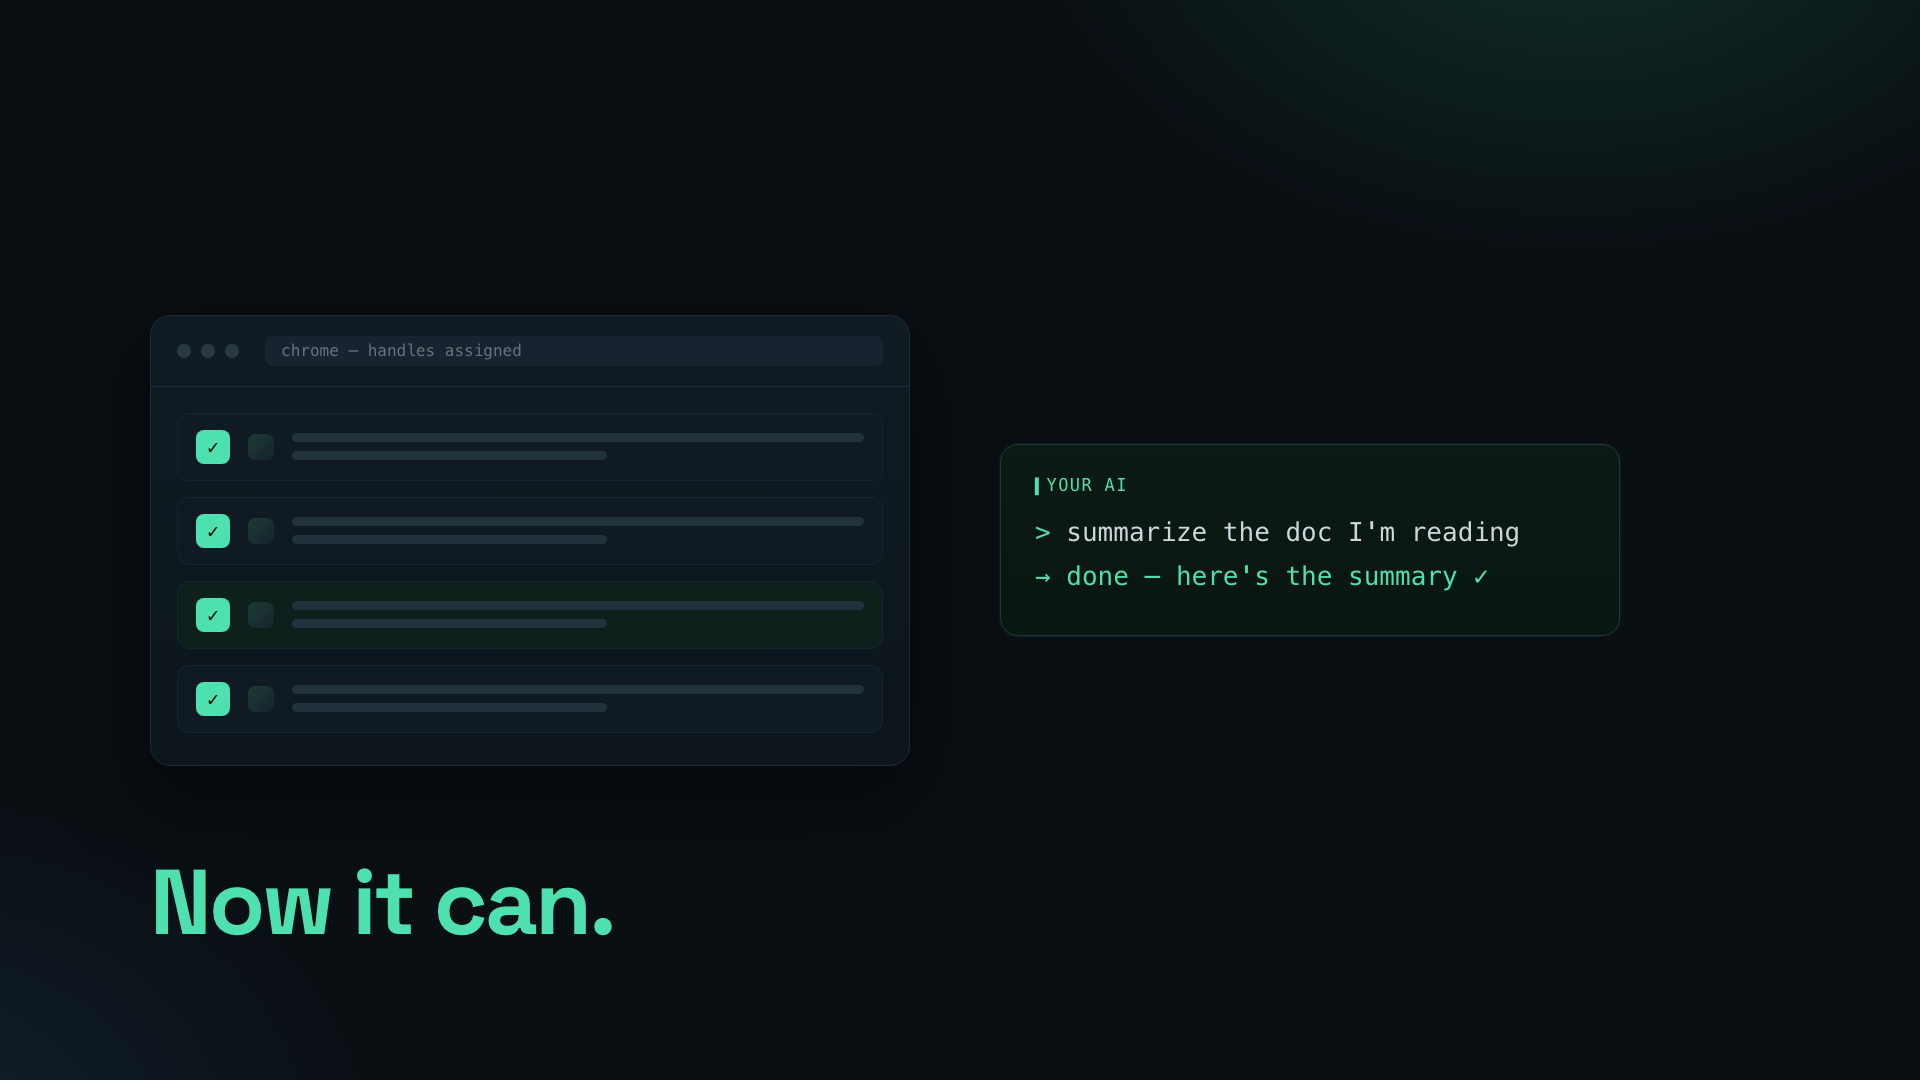
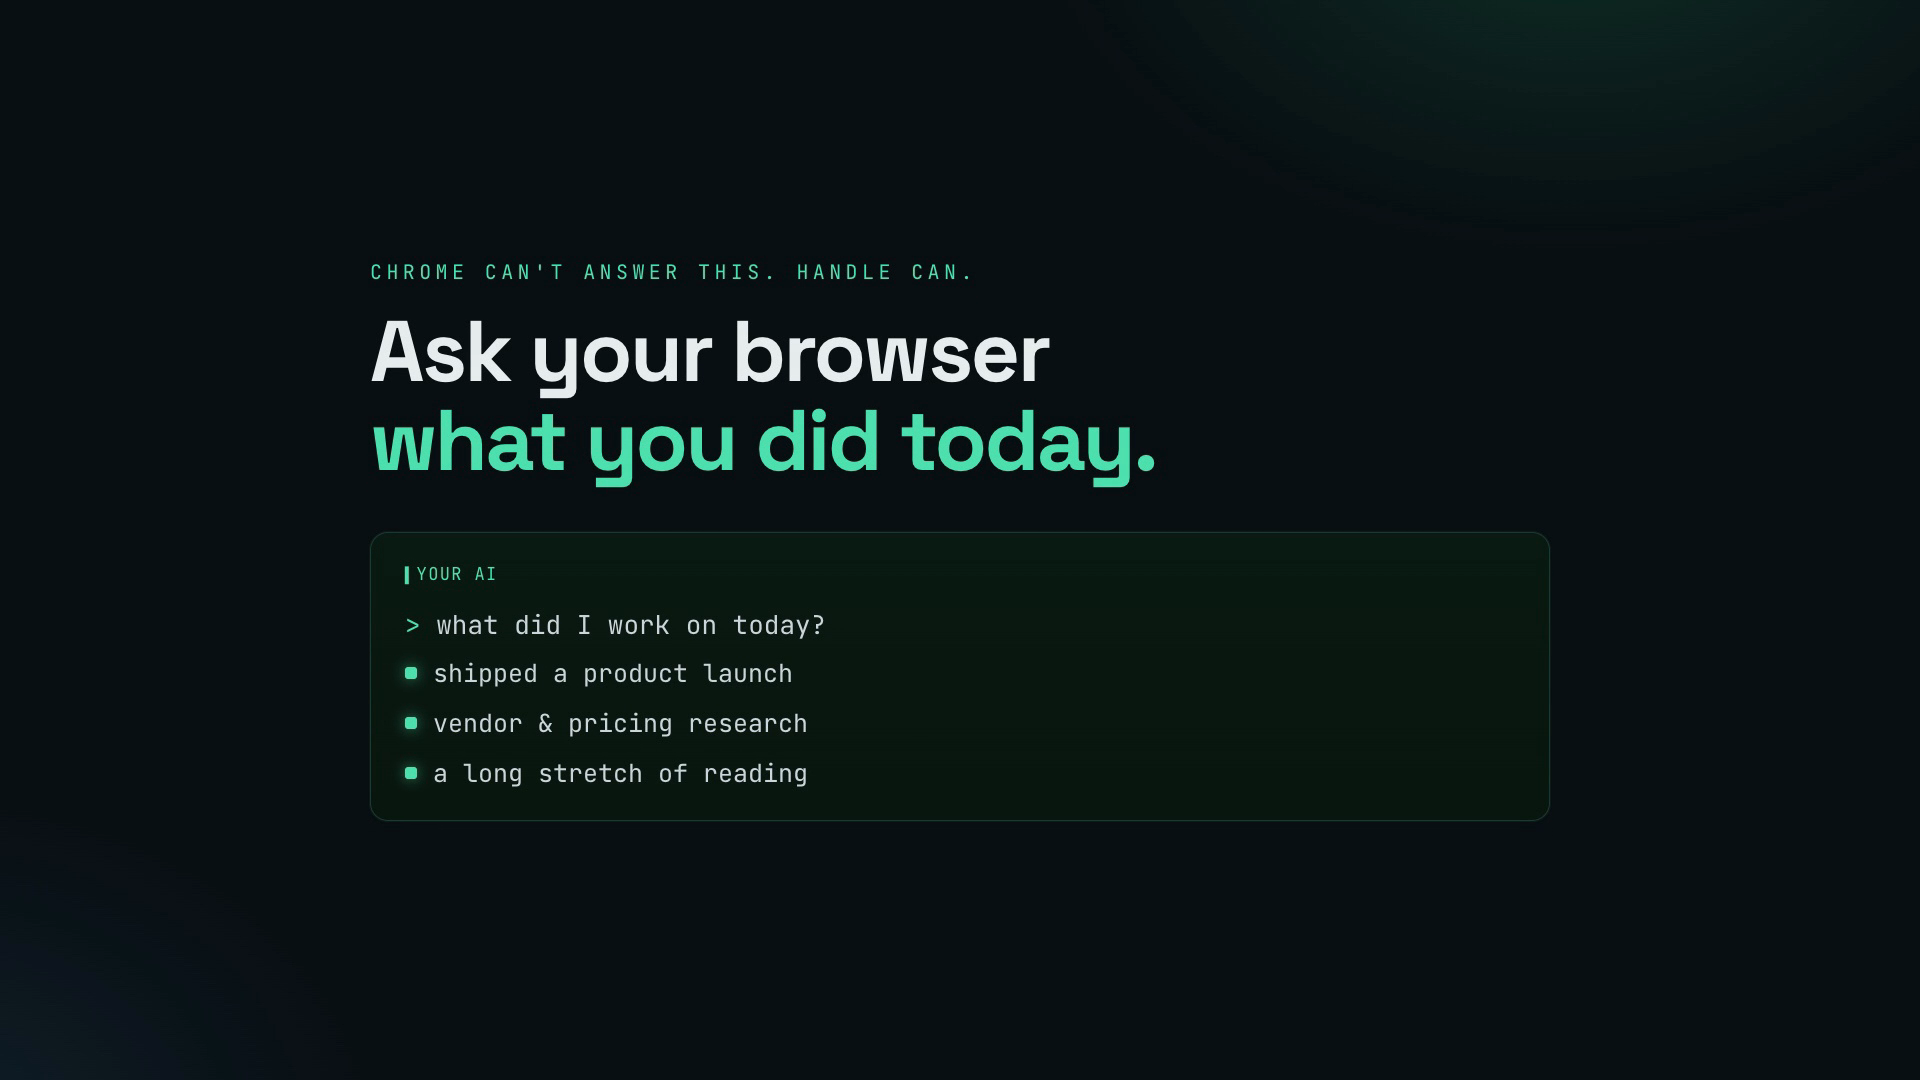
Recut launch video to the new value prop
Rebuilt the HyperFrames composition around four beats that match the
repositioned story, replacing the single "read a tab" beat:
  1. Hook — "what did I work on today?" (the thing Chrome can't answer)
  2. Resurface a past page by meaning from history → reopen → summarize
  3. Read your real, signed-in tabs (Doc/dashboard/Figma), answered cited
  4. CTA — "Your whole Chrome, one question away" + MCP + repo

Same dark/mint identity. Generic example names (Stratechery), no niche
references. Lint clean; contrast labels brightened. Replaced
docs/handle-launch.mp4 + regenerated the poster from the new scene 1.

diff --git a/launch-video/index.html b/launch-video/index.html
@@ -29,145 +29,134 @@
       #s3 { opacity: 0; z-index: 3; }
       #s4 { opacity: 0; z-index: 4; }
 
-      .stage { display: flex; align-items: center; gap: 90px; width: 100%; padding: 0 150px; }
-      .browser { width: 760px; background: linear-gradient(180deg,#101b23,#0c151c);
-        border: 1px solid #1f2c36; border-radius: 20px; box-shadow: 0 30px 80px rgba(0,0,0,.5);
-        padding: 0 0 26px; position: relative; }
-      .bbar { display:flex; align-items:center; gap:10px; padding: 20px 26px; border-bottom: 1px solid #1f2c36; }
-      .dot { width: 14px; height: 14px; border-radius: 50%; background: #2a3a45; }
-      .urlbar { margin-left: 16px; flex: 1; height: 30px; border-radius: 8px; background:#172430;
-        display:flex; align-items:center; padding: 0 16px; font-size: 16px; color:#65737d; }
-      .tabs { padding: 26px 26px 6px; display: flex; flex-direction: column; gap: 16px; position: relative; }
-      .tab { display:flex; align-items:center; gap: 18px; padding: 16px 18px; border-radius: 12px;
-        background:#0f1a22; border: 1px solid #182530; }
-      .fav { width: 26px; height: 26px; border-radius: 7px; background: linear-gradient(135deg,#1d3b33,#16242e); flex:0 0 auto; }
-      .lines { flex:1; display:flex; flex-direction:column; gap: 9px; }
-      .ln { height: 9px; border-radius: 5px; background:#22323d; }
-      .ln.s { width: 55%; }
-      .chip { font-family:"JetBrains Mono",monospace; font-weight:700; font-size: 20px; color:#06140e;
-        background:#4fe0b0; border-radius: 8px; padding: 5px 11px; flex:0 0 auto; opacity: 0; }
-      .beam { position:absolute; left: 14px; right: 14px; height: 64px; border-radius: 12px; top: 26px;
-        background: linear-gradient(180deg, rgba(79,224,176,0), rgba(79,224,176,.22), rgba(79,224,176,0));
-        box-shadow: 0 0 40px rgba(79,224,176,.4); opacity: 0; }
+      .stage { display: flex; align-items: center; gap: 80px; width: 100%; padding: 0 150px; justify-content: center; }
+      .col { display: flex; flex-direction: column; }
 
-      .term { width: 620px; background: linear-gradient(180deg,#0c1a14,#0a1610);
+      /* terminal */
+      .term { background: linear-gradient(180deg,#0c1a14,#0a1610);
         border: 1px solid #1d3b33; border-radius: 18px; padding: 30px 34px; box-shadow: 0 0 0 1px rgba(79,224,176,.06); }
       .term .who { font-family:"JetBrains Mono",monospace; font-size: 17px; color:#4fe0b0; letter-spacing:.08em; text-transform: uppercase; margin-bottom: 22px; }
       .term .line { font-family:"JetBrains Mono",monospace; font-size: 26px; color:#cdd6dc; margin-bottom: 14px; }
       .term .pr { color:#4fe0b0; }
-      .term .bad { color:#ff6b6b; }
       .term .ok { color:#4fe0b0; }
 
-      .packet { position: absolute; width: 18px; height: 18px; border-radius: 50%; background:#4fe0b0;
-        box-shadow: 0 0 22px #4fe0b0; opacity: 0; left: 905px; top: 500px; z-index: 20; }
+      /* themes (scene 1) */
+      .themes { display:flex; flex-direction:column; gap:16px; margin-top: 8px; }
+      .theme { font-family:"JetBrains Mono",monospace; font-size: 25px; color:#cdd6dc; display:flex; align-items:center; gap:16px; }
+      .theme::before { content:""; width:12px; height:12px; border-radius:3px; background:#4fe0b0; box-shadow:0 0 14px rgba(79,224,176,.55); flex:0 0 auto; }
 
+      /* history panel (scene 2) */
+      .hist { width: 820px; background: linear-gradient(180deg,#101b23,#0c151c);
+        border: 1px solid #1f2c36; border-radius: 20px; padding: 22px; position: relative;
+        box-shadow: 0 30px 80px rgba(0,0,0,.5); }
+      .histcap { font-family:"JetBrains Mono",monospace; font-size: 15px; color:#8a98a2; letter-spacing:.08em;
+        text-transform: uppercase; padding: 4px 6px 16px; color-adjust: exact; }
+      .histrow { display:flex; align-items:center; gap:16px; padding:16px 18px; border-radius:12px;
+        background:#0f1a22; border:1px solid #182530; margin-bottom:12px;
+        font-family:"JetBrains Mono",monospace; font-size:20px; color:#7c8a93; }
+      .histrow:last-child { margin-bottom:0; }
+      .histrow .ago { margin-left:auto; font-size:16px; color:#7c8a93; flex:0 0 auto; }
+      .beam { position:absolute; left: 16px; right: 16px; height: 66px; border-radius: 12px; top: 56px;
+        background: linear-gradient(180deg, rgba(79,224,176,0), rgba(79,224,176,.22), rgba(79,224,176,0));
+        box-shadow: 0 0 40px rgba(79,224,176,.4); opacity: 0; }
+
+      /* browser (scene 3) */
+      .browser { width: 760px; background: linear-gradient(180deg,#101b23,#0c151c);
+        border: 1px solid #1f2c36; border-radius: 20px; box-shadow: 0 30px 80px rgba(0,0,0,.5); padding: 0 0 26px; position: relative; }
+      .bbar { display:flex; align-items:center; gap:10px; padding: 20px 26px; border-bottom: 1px solid #1f2c36; }
+      .dot { width: 14px; height: 14px; border-radius: 50%; background: #2a3a45; }
+      .urlbar { margin-left: 16px; flex: 1; height: 30px; border-radius: 8px; background:#172430;
+        display:flex; align-items:center; padding: 0 16px; font-size: 16px; color:#8a98a2; }
+      .tabs { padding: 26px 26px 6px; display: flex; flex-direction: column; gap: 16px; position: relative; }
+      .tab { display:flex; align-items:center; gap: 18px; padding: 18px 18px; border-radius: 12px;
+        background:#0f1a22; border: 1px solid #182530; }
+      .fav { width: 26px; height: 26px; border-radius: 7px; background: linear-gradient(135deg,#1d3b33,#16242e); flex:0 0 auto; }
+      .tname { font-family:"JetBrains Mono",monospace; font-size: 21px; color:#aab6bd; }
+      .lock { margin-left:auto; font-size: 17px; color:#4fe0b0; flex:0 0 auto; }
+      .chip { font-family:"JetBrains Mono",monospace; font-weight:700; font-size: 19px; color:#06140e;
+        background:#4fe0b0; border-radius: 8px; padding: 5px 11px; flex:0 0 auto; opacity: 0; }
+
+      /* text blocks */
       .eyebrow { font-family:"JetBrains Mono",monospace; font-size: 20px; letter-spacing: .22em;
         text-transform: uppercase; color:#4fe0b0; }
-      .headline { font-size: 92px; font-weight: 700; line-height: 1.02; letter-spacing: -0.03em; }
+      .headline { font-size: 86px; font-weight: 700; line-height: 1.03; letter-spacing: -0.03em; }
       .headline .accent { color:#4fe0b0; }
-      .sub { font-size: 30px; color:#94a3ad; max-width: 1100px; line-height: 1.5; }
-      .s1-text { position: absolute; left: 150px; bottom: 100px; right: 150px; }
-      .s2-text { position: absolute; left: 150px; bottom: 130px; }
+      .sub { font-size: 28px; color:#94a3ad; line-height: 1.5; }
+      .scene-cap { position: absolute; left: 150px; right: 150px; bottom: 96px; text-align: center; }
 
-      .range { display:flex; flex-direction: column; gap: 44px; width: 100%; padding: 0 160px; align-items: center; }
-      .fmts { display: flex; gap: 22px; }
-      .fmt { font-family:"JetBrains Mono",monospace; font-size: 28px; color:#86f0d0; background:#0e1620;
-        border: 1px solid #1f2c36; border-radius: 12px; padding: 18px 30px; }
-      .demorow { display:flex; gap: 30px; width: 100%; max-width: 1300px; }
-      .demo { flex:1; background:#0e1620; border:1px solid #1f2c36; border-radius: 16px; padding: 30px 34px; }
-      .demo .q { font-family:"JetBrains Mono",monospace; font-size: 26px; color:#e8edf0; margin-bottom: 16px; }
-      .demo .q .pr { color:#f4b860; }
-      .demo .a { font-family:"JetBrains Mono",monospace; font-size: 24px; color:#94a3ad; }
-      .demo .a b { color:#4fe0b0; font-weight: 700; }
-
-      .cta { display:flex; flex-direction: column; align-items:center; gap: 30px; }
-      .mark { width: 130px; height: 130px; border-radius: 30px; background: linear-gradient(180deg,#16242e,#0e1822);
+      /* CTA (scene 4) */
+      .cta { display:flex; flex-direction: column; align-items:center; gap: 26px; }
+      .mark { width: 124px; height: 124px; border-radius: 30px; background: linear-gradient(180deg,#16242e,#0e1822);
         border: 1px solid #2c5247; display:flex; align-items:center; justify-content:center;
         box-shadow: 0 0 60px rgba(79,224,176,.25); }
-      .mark span { font-family:"JetBrains Mono",monospace; font-weight:700; font-size: 56px; color:#4fe0b0; }
-      .word { font-size: 110px; font-weight: 700; letter-spacing: -0.03em; }
-      .ctatag { font-size: 32px; color:#94a3ad; }
-      .cmd { font-family:"JetBrains Mono",monospace; font-size: 34px; color:#4fe0b0; background:#0c1a14;
-        border: 1px solid #1d3b33; border-radius: 12px; padding: 18px 34px; }
-      .url { font-family:"JetBrains Mono",monospace; font-size: 26px; color:#8a98a2; }
+      .mark span { font-family:"JetBrains Mono",monospace; font-weight:700; font-size: 54px; color:#4fe0b0; }
+      .word { font-size: 104px; font-weight: 700; letter-spacing: -0.03em; }
+      .ctatag { font-size: 40px; font-weight: 500; color:#e8edf0; letter-spacing: -0.02em; }
+      .ctatag .accent { color:#4fe0b0; }
+      .meta { font-family:"JetBrains Mono",monospace; font-size: 22px; color:#8a98a2; letter-spacing:.04em; }
+      .cmd { font-family:"JetBrains Mono",monospace; font-size: 32px; color:#4fe0b0; background:#0c1a14;
+        border: 1px solid #1d3b33; border-radius: 12px; padding: 16px 32px; }
+      .url { font-family:"JetBrains Mono",monospace; font-size: 25px; color:#8a98a2; }
     </style>
   </head>
   <body>
-    <div id="root" data-composition-id="main" data-start="0" data-duration="28" data-width="1920" data-height="1080">
+    <div id="root" data-composition-id="main" data-start="0" data-duration="27" data-width="1920" data-height="1080">
 
-      <!-- ===== SCENE 1 — the problem ===== -->
+      <!-- ===== SCENE 1 — the hook: ask your browser about your day ===== -->
       <div id="s1" class="scene">
-        <div class="stage">
-          <div class="browser" id="s1-browser">
-            <div class="bbar"><i class="dot"></i><i class="dot"></i><i class="dot"></i><div class="urlbar mono">chrome — 9 tabs open</div></div>
-            <div class="tabs">
-              <div class="tab s1tab"><span class="fav"></span><div class="lines"><div class="ln"></div><div class="ln s"></div></div></div>
-              <div class="tab s1tab"><span class="fav"></span><div class="lines"><div class="ln"></div><div class="ln s"></div></div></div>
-              <div class="tab s1tab"><span class="fav"></span><div class="lines"><div class="ln"></div><div class="ln s"></div></div></div>
-              <div class="tab s1tab"><span class="fav"></span><div class="lines"><div class="ln"></div><div class="ln s"></div></div></div>
-              <div class="tab s1tab"><span class="fav"></span><div class="lines"><div class="ln"></div><div class="ln s"></div></div></div>
+        <div class="col" style="width: 1180px; gap: 0;">
+          <div class="eyebrow" id="s1-eye">chrome can't answer this. handle can.</div>
+          <div class="headline" id="s1-head" style="margin-top: 22px">Ask your browser<br/><span class="accent">what you did today.</span></div>
+          <div class="term" id="s1-term" style="margin-top: 48px;">
+            <div class="who">▍your ai</div>
+            <div class="line"><span class="pr">&gt;</span> what did I work on today?</div>
+            <div class="themes">
+              <div class="theme s1th">shipped a product launch</div>
+              <div class="theme s1th">vendor &amp; pricing research</div>
+              <div class="theme s1th">a long stretch of reading</div>
             </div>
           </div>
-          <div class="term" id="s1-term">
-            <div class="who">▍your ai</div>
-            <div class="line"><span class="pr">&gt;</span> summarize the doc I'm reading</div>
-            <div class="line bad" id="s1-bad">✗ I can't see your tabs</div>
-          </div>
-        </div>
-        <div class="s1-text">
-          <div class="eyebrow" id="s1-eye">the agent is blind to your browser</div>
-          <div class="headline" id="s1-head" style="margin-top:18px">Your agent can't read<br/>your <span class="accent">logged-in</span> tabs.</div>
         </div>
       </div>
 
-      <!-- ===== SCENE 2 — the fix ===== -->
+      <!-- ===== SCENE 2 — resurface a past page by meaning ===== -->
       <div id="s2" class="scene">
         <div class="stage">
-          <div class="browser" id="s2-browser">
-            <div class="bbar"><i class="dot"></i><i class="dot"></i><i class="dot"></i><div class="urlbar mono">chrome — handles assigned</div></div>
-            <div class="tabs">
-              <div class="beam" id="s2-beam"></div>
-              <div class="tab"><span class="chip s2chip">✓</span><span class="fav"></span><div class="lines"><div class="ln"></div><div class="ln s"></div></div></div>
-              <div class="tab"><span class="chip s2chip">✓</span><span class="fav"></span><div class="lines"><div class="ln"></div><div class="ln s"></div></div></div>
-              <div class="tab" id="s2-figma"><span class="chip s2chip">✓</span><span class="fav"></span><div class="lines"><div class="ln"></div><div class="ln s"></div></div></div>
-              <div class="tab"><span class="chip s2chip">✓</span><span class="fav"></span><div class="lines"><div class="ln"></div><div class="ln s"></div></div></div>
-            </div>
+          <div class="hist" id="s2-hist">
+            <div class="histcap">your chrome history</div>
+            <div class="beam" id="s2-beam"></div>
+            <div class="histrow s2row">a news homepage <span class="ago">2h</span></div>
+            <div class="histrow s2row" id="s2-hit">Stratechery — Aggregation Theory <span class="ago">6d</span></div>
+            <div class="histrow s2row">a youtube video <span class="ago">3d</span></div>
+            <div class="histrow s2row">an amazon order <span class="ago">5d</span></div>
           </div>
-          <div class="term" id="s2-term">
+          <div class="term" id="s2-term" style="width: 600px;">
             <div class="who">▍your ai</div>
-            <div class="line"><span class="pr">&gt;</span> summarize the doc I'm reading</div>
-            <div class="line ok" id="s2-ok">→ done — here's the summary ✓</div>
+            <div class="line"><span class="pr">&gt;</span> pull up that Stratechery piece I read last week</div>
+            <div class="line ok" id="s2-ok">→ found it · reopened · summarized ✓</div>
           </div>
         </div>
-        <div class="packet" id="s2-packet"></div>
-        <div class="s2-text">
-          <div class="headline"><span class="accent" id="s2-head">Now it can.</span></div>
-        </div>
+        <div class="scene-cap"><div class="sub" id="s2-cap">Found by <b style="color:#4fe0b0">meaning</b> in your history — even after the tab is long gone.</div></div>
       </div>
 
-      <!-- ===== SCENE 3 — the range ===== -->
+      <!-- ===== SCENE 3 — your real, signed-in tabs, all at once ===== -->
       <div id="s3" class="scene">
-        <div class="range">
-          <div class="eyebrow" id="s3-eye">reads anything you have open</div>
-          <div class="fmts">
-            <div class="fmt s3fmt">HTML</div>
-            <div class="fmt s3fmt">Docs</div>
-            <div class="fmt s3fmt">Sheets</div>
-            <div class="fmt s3fmt">Figma</div>
-            <div class="fmt s3fmt">PDF</div>
-          </div>
-          <div class="demorow">
-            <div class="demo" id="s3-grep">
-              <div class="q"><span class="pr">find</span> "pricing"</div>
-              <div class="a">→ found in <b>2 of your tabs</b></div>
-            </div>
-            <div class="demo" id="s3-ask">
-              <div class="q"><span class="pr">ask</span> "what do my tabs say?"</div>
-              <div class="a">→ answered, <b>with sources</b></div>
+        <div class="stage">
+          <div class="browser" id="s3-browser">
+            <div class="bbar"><i class="dot"></i><i class="dot"></i><i class="dot"></i><div class="urlbar mono">chrome — signed in</div></div>
+            <div class="tabs">
+              <div class="tab s3tab"><span class="fav"></span><span class="tname">Google Doc — the spec</span><span class="lock">🔒</span></div>
+              <div class="tab s3tab"><span class="fav"></span><span class="tname">the internal dashboard</span><span class="lock">🔒</span></div>
+              <div class="tab s3tab"><span class="fav"></span><span class="tname">a Figma board</span><span class="lock">🔒</span></div>
             </div>
           </div>
-          <div class="sub" id="s3-sub" style="text-align:center">Search and ask across every tab — past the login wall, a few hundred tokens.</div>
+          <div class="term" id="s3-term" style="width: 600px;">
+            <div class="who">▍your ai</div>
+            <div class="line"><span class="pr">&gt;</span> answer this from my open tabs</div>
+            <div class="line ok" id="s3-ok">→ answered, cited: Doc · Dashboard ✓</div>
+          </div>
         </div>
+        <div class="scene-cap"><div class="sub" id="s3-cap">Reads the browser you're already signed into — past the login, where other agents can't go.</div></div>
       </div>
 
       <!-- ===== SCENE 4 — CTA ===== -->
@@ -175,7 +164,8 @@
         <div class="cta">
           <div class="mark" id="s4-mark"><span>t·</span></div>
           <div class="word" id="s4-word">Handle</div>
-          <div class="ctatag" id="s4-tag">give your agent a handle on every open tab</div>
+          <div class="ctatag" id="s4-tag">Your whole Chrome, <span class="accent">one question away.</span></div>
+          <div class="meta" id="s4-meta">read-only · local · open source · works over MCP</div>
           <div class="cmd" id="s4-cmd">claude mcp add handle</div>
           <div class="url" id="s4-url">github.com/abhitsian/handle</div>
         </div>
@@ -187,45 +177,42 @@
       window.__timelines = window.__timelines || {};
       const tl = gsap.timeline({ paused: true });
 
-      /* ===== SCENE 1 (0–6.6) ===== */
-      tl.from("#s1-browser", { x: -80, opacity: 0, duration: 0.8, ease: "power3.out" }, 0.2);
-      tl.from(".s1tab", { x: -30, opacity: 0, duration: 0.5, stagger: 0.08, ease: "power2.out" }, 0.5);
-      tl.from("#s1-term", { x: 80, opacity: 0, duration: 0.8, ease: "power3.out" }, 0.5);
-      tl.from("#s1-bad", { opacity: 0, duration: 0.3, ease: "power1.in" }, 1.7);
-      tl.fromTo("#s1-bad", { x: -6 }, { x: 6, duration: 0.07, repeat: 5, yoyo: true, ease: "none" }, 1.7);
-      tl.from("#s1-eye", { y: 24, opacity: 0, duration: 0.5, ease: "power2.out" }, 2.2);
-      tl.from("#s1-head", { y: 50, opacity: 0, duration: 0.8, ease: "expo.out" }, 2.5);
+      /* ===== SCENE 1 (0–6.2) — the hook ===== */
+      tl.from("#s1-eye", { y: 24, opacity: 0, duration: 0.5, ease: "power2.out" }, 0.3);
+      tl.from("#s1-head", { y: 54, opacity: 0, duration: 0.85, ease: "expo.out" }, 0.6);
+      tl.from("#s1-term", { y: 60, opacity: 0, duration: 0.7, ease: "power3.out" }, 1.5);
+      tl.from(".s1th", { x: -24, opacity: 0, duration: 0.5, stagger: 0.45, ease: "power2.out" }, 2.4);
 
-      /* ===== → SCENE 2 (crossfade at 6.6) ===== */
-      tl.to("#s2", { opacity: 1, duration: 0.6, ease: "power2.inOut" }, 6.6);
-      tl.from("#s2-browser", { opacity: 0, duration: 0.5, ease: "power2.out" }, 6.6);
-      tl.from("#s2-term", { opacity: 0, duration: 0.5, ease: "power2.out" }, 6.6);
-      tl.fromTo(".s2chip", { opacity: 0, scale: 0.4 }, { opacity: 1, scale: 1, duration: 0.45, stagger: 0.12, ease: "back.out(2)" }, 7.3);
-      tl.fromTo("#s2-beam", { opacity: 0, y: 0 }, { opacity: 1, duration: 0.25, ease: "power1.out" }, 8.4);
-      tl.to("#s2-beam", { y: 300, duration: 1.0, ease: "power1.inOut" }, 8.5);
-      tl.to("#s2-beam", { opacity: 0, duration: 0.25, ease: "power1.in" }, 9.4);
-      tl.fromTo("#s2-figma", { backgroundColor: "#0f1a22" }, { backgroundColor: "#0e201b", duration: 0.4, ease: "power2.out" }, 9.2);
-      tl.fromTo("#s2-packet", { opacity: 0, x: 0 }, { opacity: 1, duration: 0.2, ease: "power1.out" }, 9.7);
-      tl.to("#s2-packet", { x: 470, duration: 0.7, ease: "power2.inOut" }, 9.8);
-      tl.to("#s2-packet", { opacity: 0, duration: 0.2, ease: "power1.in" }, 10.5);
-      tl.from("#s2-ok", { opacity: 0, x: -12, duration: 0.4, ease: "power2.out" }, 10.6);
-      tl.fromTo("#s2-head", { opacity: 0, scale: 0.85 }, { opacity: 1, scale: 1, duration: 0.7, ease: "back.out(1.6)" }, 11.1);
+      /* ===== → SCENE 2 (crossfade at 6.2) — resurface by meaning ===== */
+      tl.to("#s2", { opacity: 1, duration: 0.6, ease: "power2.inOut" }, 6.2);
+      tl.from("#s2-term", { opacity: 0, x: 60, duration: 0.6, ease: "power3.out" }, 6.4);
+      tl.from("#s2-hist", { opacity: 0, x: -60, duration: 0.6, ease: "power3.out" }, 6.4);
+      tl.from(".s2row", { opacity: 0, y: 18, duration: 0.4, stagger: 0.1, ease: "power2.out" }, 6.9);
+      /* scan beam sweeps the history */
+      tl.fromTo("#s2-beam", { opacity: 0, y: 0 }, { opacity: 1, duration: 0.25, ease: "power1.out" }, 7.8);
+      tl.to("#s2-beam", { y: 250, duration: 1.1, ease: "power1.inOut" }, 7.9);
+      tl.to("#s2-beam", { opacity: 0, duration: 0.25, ease: "power1.in" }, 8.9);
+      /* the match lights up */
+      tl.to("#s2-hit", { backgroundColor: "#0e201b", borderColor: "#2c5247", color: "#e8edf0", duration: 0.4, ease: "power2.out" }, 8.7);
+      tl.from("#s2-ok", { opacity: 0, x: -12, duration: 0.45, ease: "power2.out" }, 9.4);
+      tl.from("#s2-cap", { opacity: 0, y: 20, duration: 0.5, ease: "power2.out" }, 10.0);
 
-      /* ===== → SCENE 3 (crossfade at 14.8) ===== */
-      tl.to("#s3", { opacity: 1, duration: 0.6, ease: "power2.inOut" }, 14.8);
-      tl.from("#s3-eye", { y: 24, opacity: 0, duration: 0.5, ease: "power2.out" }, 15.0);
-      tl.from(".s3fmt", { y: 30, opacity: 0, scale: 0.8, duration: 0.45, stagger: 0.1, ease: "back.out(1.8)" }, 15.3);
-      tl.from("#s3-grep", { y: 36, opacity: 0, duration: 0.55, ease: "power3.out" }, 16.4);
-      tl.from("#s3-ask", { y: 36, opacity: 0, duration: 0.55, ease: "expo.out" }, 16.8);
-      tl.from("#s3-sub", { y: 24, opacity: 0, duration: 0.5, ease: "power2.out" }, 17.6);
+      /* ===== → SCENE 3 (crossfade at 13.0) — signed-in tabs ===== */
+      tl.to("#s3", { opacity: 1, duration: 0.6, ease: "power2.inOut" }, 13.0);
+      tl.from("#s3-browser", { opacity: 0, x: -60, duration: 0.6, ease: "power3.out" }, 13.2);
+      tl.from("#s3-term", { opacity: 0, x: 60, duration: 0.6, ease: "power3.out" }, 13.2);
+      tl.from(".s3tab", { opacity: 0, y: 22, duration: 0.45, stagger: 0.13, ease: "back.out(1.7)" }, 13.7);
+      tl.from("#s3-ok", { opacity: 0, x: -12, duration: 0.45, ease: "power2.out" }, 15.2);
+      tl.from("#s3-cap", { opacity: 0, y: 20, duration: 0.5, ease: "power2.out" }, 15.9);
 
-      /* ===== → SCENE 4 (crossfade at 22.0) ===== */
-      tl.to("#s4", { opacity: 1, duration: 0.6, ease: "power2.inOut" }, 22.0);
-      tl.fromTo("#s4-mark", { opacity: 0, scale: 0.5, rotation: -8 }, { opacity: 1, scale: 1, rotation: 0, duration: 0.6, ease: "back.out(2)" }, 22.3);
-      tl.from("#s4-word", { y: 40, opacity: 0, duration: 0.6, ease: "expo.out" }, 22.7);
-      tl.from("#s4-tag", { y: 24, opacity: 0, duration: 0.5, ease: "power2.out" }, 23.1);
-      tl.from("#s4-cmd", { y: 24, opacity: 0, duration: 0.5, ease: "power3.out" }, 23.6);
-      tl.from("#s4-url", { opacity: 0, duration: 0.5, ease: "power1.out" }, 24.1);
+      /* ===== → SCENE 4 (crossfade at 20.8) — CTA ===== */
+      tl.to("#s4", { opacity: 1, duration: 0.6, ease: "power2.inOut" }, 20.8);
+      tl.fromTo("#s4-mark", { opacity: 0, scale: 0.5, rotation: -8 }, { opacity: 1, scale: 1, rotation: 0, duration: 0.6, ease: "back.out(2)" }, 21.1);
+      tl.from("#s4-word", { y: 40, opacity: 0, duration: 0.6, ease: "expo.out" }, 21.5);
+      tl.from("#s4-tag", { y: 26, opacity: 0, duration: 0.55, ease: "power3.out" }, 22.0);
+      tl.from("#s4-meta", { y: 20, opacity: 0, duration: 0.5, ease: "power2.out" }, 22.5);
+      tl.from("#s4-cmd", { y: 22, opacity: 0, duration: 0.5, ease: "power3.out" }, 22.9);
+      tl.from("#s4-url", { opacity: 0, duration: 0.5, ease: "power1.out" }, 23.4);
 
       window.__timelines["main"] = tl;
     </script>